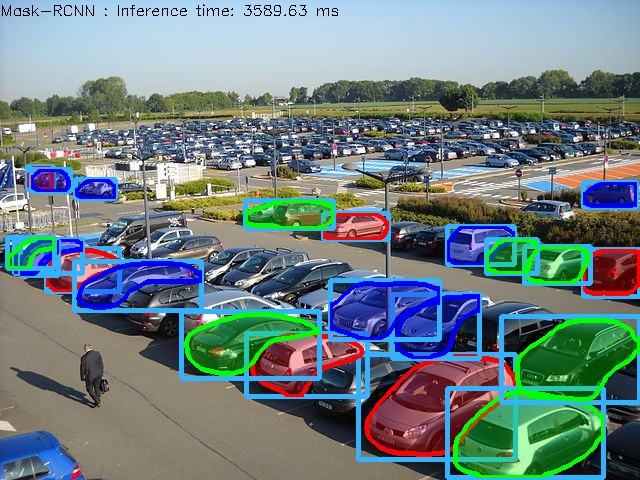
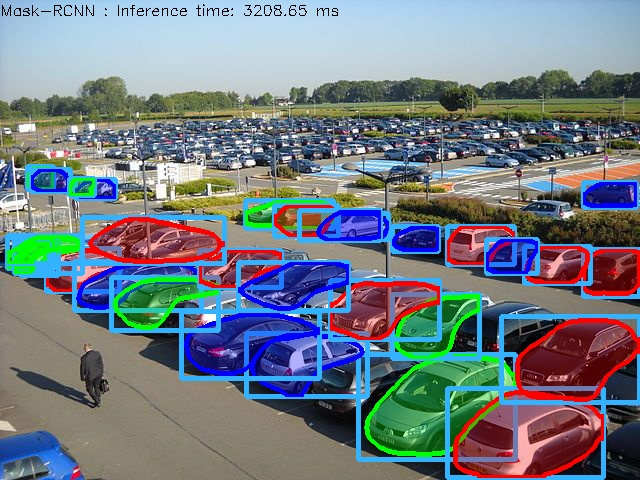
update new_segment.py
Changed Confidence Threshold to detect more cars

Changed region(s): [[0.0, 0.3438, 1.0, 1.0], [0.4062, 0.0, 0.4375, 0.0312]]

diff --git a/new_segment.py b/new_segment.py
@@ -3,7 +3,7 @@ import cv2 as cv
 import os
 import random
 
-confThreshold = 0.5
+confThreshold = 0.3
 maskThreshold = 0.3
 
 image = cv.imread('cars.jpg')
